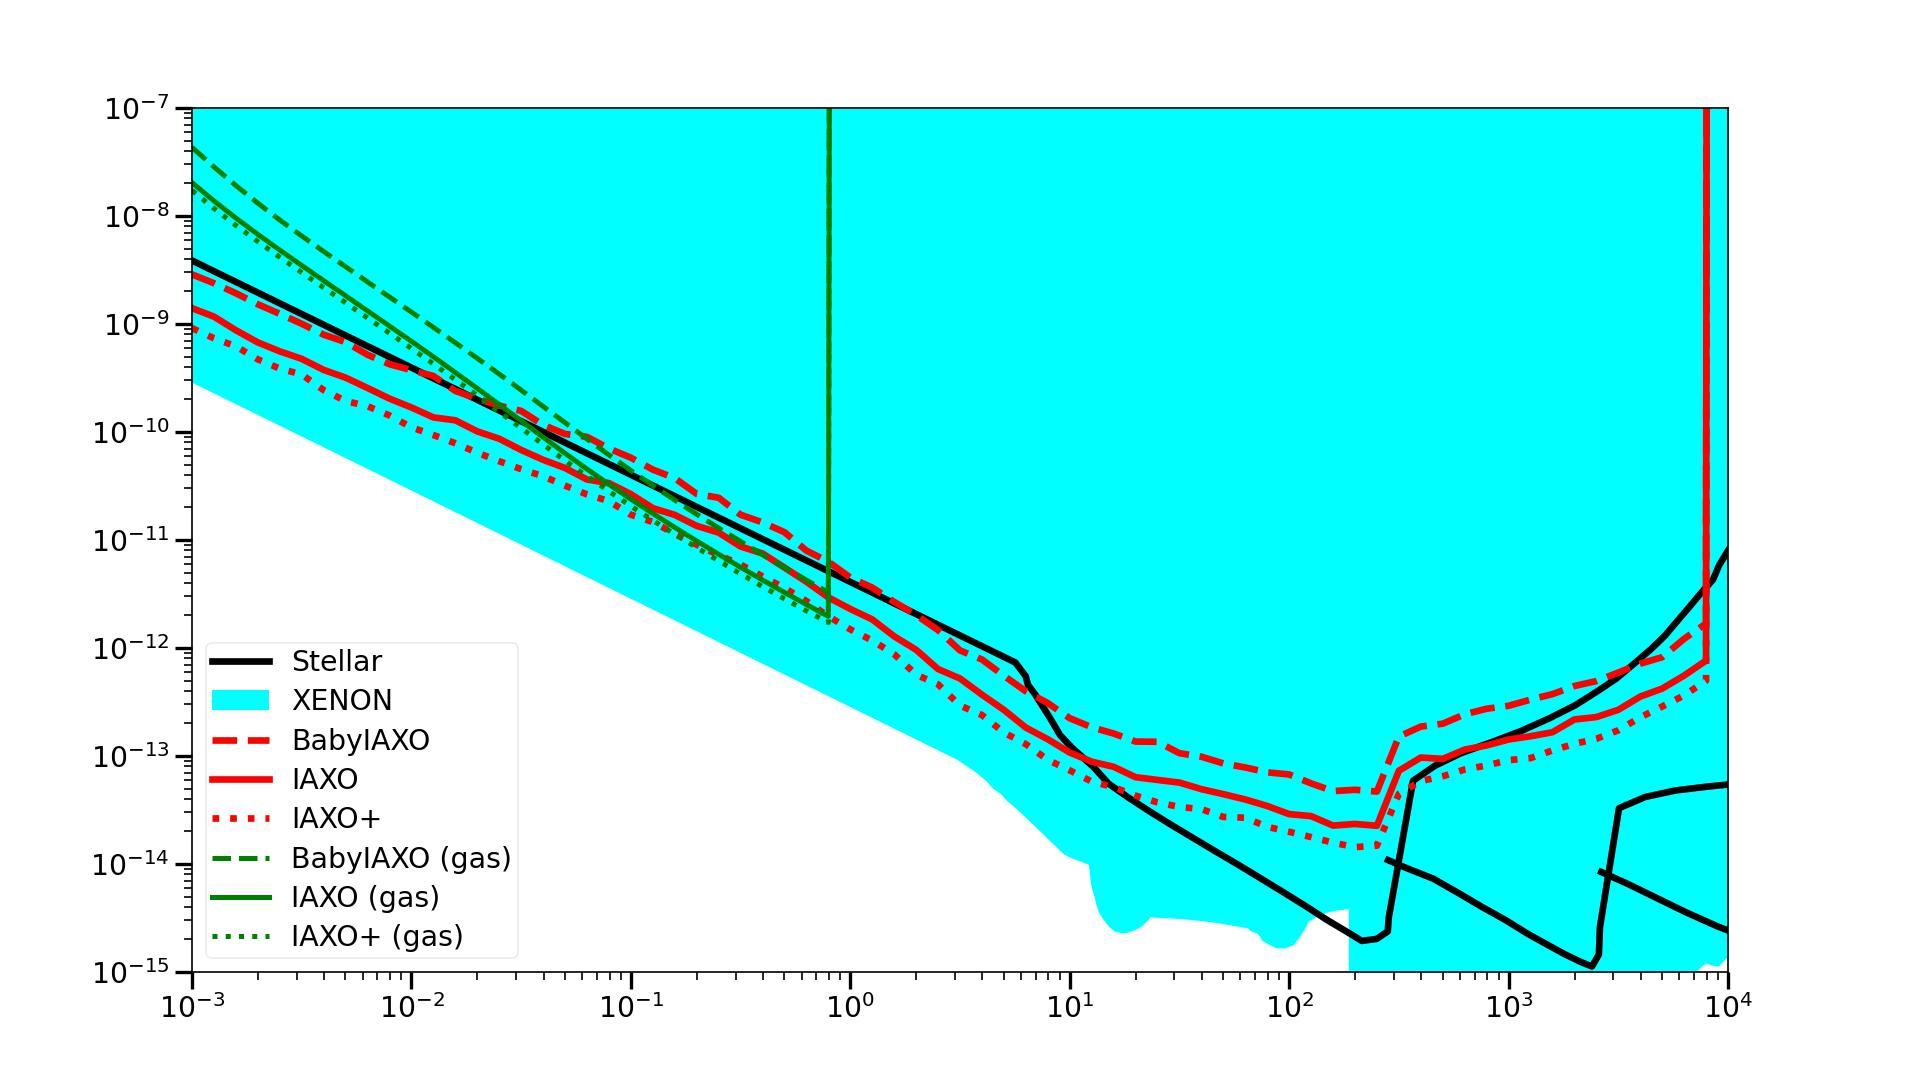
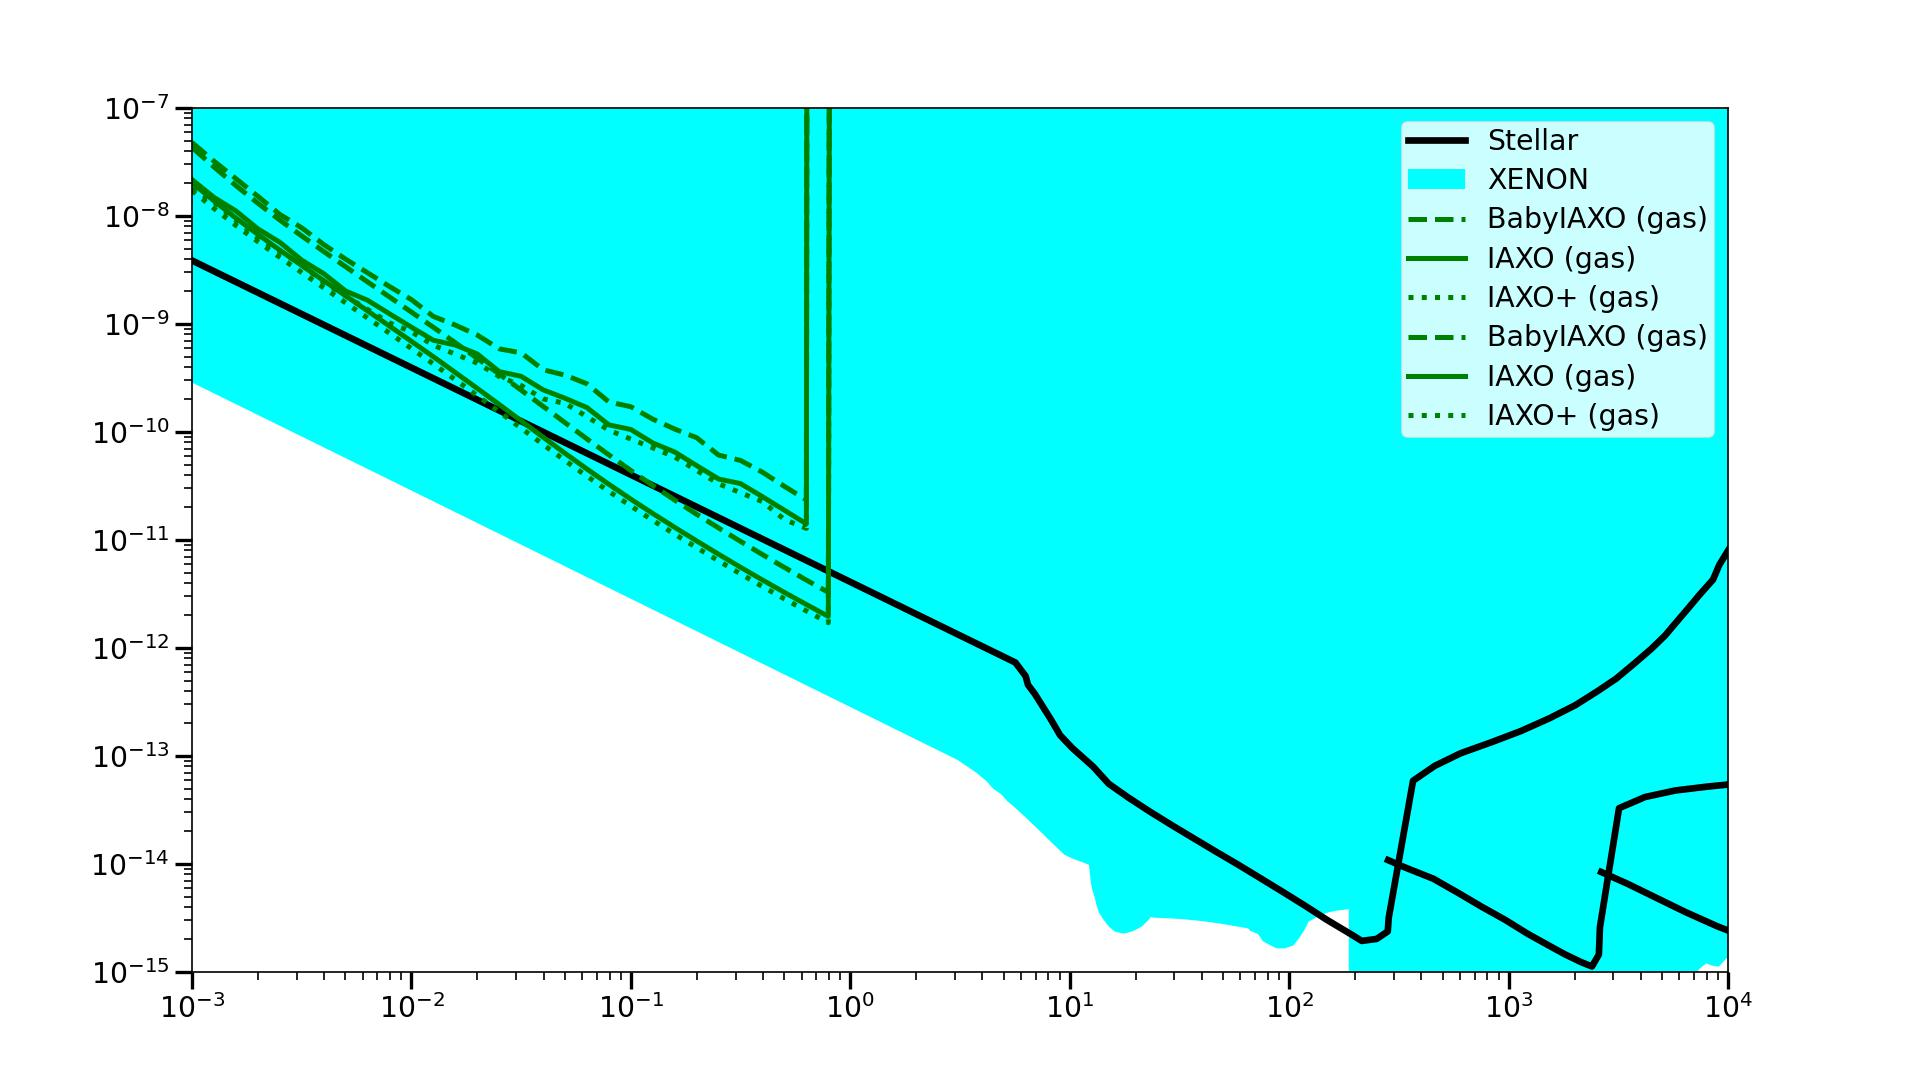
testing limit setting method

Changed region(s): [[0.0938, 0.0917, 0.9062, 0.7944], [0.0938, 0.5806, 0.25, 0.8861]]

diff --git a/plotLimitComparison-test.py b/plotLimitComparison-test.py
@@ -1,0 +1,123 @@
+# comparing different contributions for babyIAXO
+
+# conversion factors
+s2eV = (6.582119569e-16)
+J2eV = (1. / 1.602176634e-19)
+m2eV = (1.973269804e-7)
+K2eV = (8.617333262e-5)
+kg2eV = 5.609588604e35
+
+import numpy as np
+from numpy import loadtxt
+from numpy import sqrt
+from matplotlib import pyplot as plt
+
+plt.style.use("style.txt")	# import plot style
+
+# setup plot
+fig2 = plt.figure(1)	# display is 1920 x 1080 (16:9)
+ax2 = fig2.add_axes((.1,.1,.8,.8))
+ax2.set(xlim=(1e-3,1e4), ylim=(1e-15,1e-7))
+
+# solar bounds
+dat = loadtxt("DPlimits/limit_data/DarkPhoton/Solar.txt")
+ax2.plot(dat[:,0],dat[:,1], label='Stellar', color='black',ls='-', lw=4)
+dat = loadtxt("DPlimits/limit_data/DarkPhoton/RG.txt")
+ax2.plot(dat[:,0],dat[:,1], color='black',ls='-', lw=4)
+dat = loadtxt("DPlimits/limit_data/DarkPhoton/HB.txt")
+ax2.plot(dat[:,0],dat[:,1], color='black',ls='-', lw=4)
+
+
+# XENON
+col='cyan'
+y2= 1e-5
+alp=1
+dat = loadtxt("DPlimits/limit_data/DarkPhoton/Xenon1T.txt")
+dat[:,1] = dat[:,1]*sqrt(0.3/0.45)
+plt.fill_between(1e3*dat[:,0],dat[:,1],y2=y2,label='XENON',edgecolor=None,facecolor=col,zorder=0.5,alpha=alp)
+
+dat = loadtxt("DPlimits/limit_data/DarkPhoton/Xenon1T_S1S2.txt")
+dat[:,1] = dat[:,1]*sqrt(0.3/0.45)
+plt.fill_between(dat[:,0],dat[:,1],y2=y2,edgecolor=None,facecolor=col,zorder=0.5,alpha=alp)
+
+dat = loadtxt("DPlimits/limit_data/DarkPhoton/XENON1T_SE.txt")
+dat[:,1] = dat[:,1]*sqrt(0.3/0.45)
+plt.fill_between(dat[:,0],dat[:,1],y2=y2,edgecolor=None,facecolor=col,zorder=0.5,alpha=alp)
+
+dat = loadtxt("DPlimits/limit_data/DarkPhoton/XENON1T_Solar_SE.txt")
+plt.fill_between(dat[:,0],dat[:,1],y2=y2,edgecolor=None,facecolor=col,zorder=0.5,alpha=alp)
+
+dat = loadtxt("DPlimits/limit_data/DarkPhoton/XENONnT.txt")
+plt.fill_between(dat[:,0],dat[:,1],y2=y2,edgecolor=None,facecolor=col,zorder=0.5,alpha=alp)
+
+
+
+# vacuum stats
+dat = loadtxt("data/limits/statsAtlas-babyIAXO-1eV-test.dat")
+ax2.plot(dat[:,0],dat[:,1], label='BabyIAXO (stats)', color='red',ls='--', lw=4)
+
+dat = loadtxt("data/limits/statsAtlas-baselineIAXO-1eV-test.dat")
+ax2.plot(dat[:,0],dat[:,1], label='IAXO (stats)', color='red',ls='-', lw=4)
+
+dat = loadtxt("data/limits/statsAtlas-upgradedIAXO-1eV-test.dat")
+ax2.plot(dat[:,0],dat[:,1], label='IAXO+ (stats)', color='red',ls=':', lw=4)
+
+
+# vacuum naive
+dat = loadtxt("data/limits/babyIAXO-Atlas-1eV.dat")
+a = 0.6 * 1e-4 		# m2
+A = 0.77			# m2
+bg = 1e-7	# cm-2 s-1 keV-1
+bg *= 10 * (100*m2eV)**2 * s2eV	# eV3
+dat[:,1] = ((bg/dat[:,1]) * a/A) **(1/4)
+ax2.plot(dat[:,0],dat[:,1], label='BabyIAXO (bg = sig)', color='green',ls='--', lw=4)
+
+dat = loadtxt("data/limits/baselineIAXO-Atlas-1eV.dat")
+a = 1.2 * 1e-4 		# m2
+A = 2.3				# m2
+bg = 1e-8	# cm-2 s-1 keV-1
+bg *= 10 * (100*m2eV)**2 * s2eV	# eV3
+dat[:,1] = ((bg/dat[:,1]) * a/A) **(1/4)
+ax2.plot(dat[:,0],dat[:,1], label='IAXO (bg = sig)', color='green',ls='-', lw=4)
+
+dat = loadtxt("data/limits/upgradedIAXO-Atlas-1eV.dat")
+a = 1.2 * 1e-4 		# m2
+A = 3.9				# m2
+bg = 1e-9	# cm-2 s-1 keV-1
+bg *= 10 * (100*m2eV)**2 * s2eV	# eV3
+dat[:,1] = ((bg/dat[:,1]) * a/A) **(1/4)
+ax2.plot(dat[:,0],dat[:,1], label='IAXO+ (bg = sig)', color='green',ls=':', lw=4)
+
+
+# gas Atlas
+#dat = loadtxt("data/limits/stats-babyIAXO-AtlasGas-30eV.dat")
+#ax2.plot(dat[:,0],dat[:,1], label='BabyIAXO (gas)', color='g',ls='--', lw=3)
+#
+#dat = loadtxt("data/limits/stats-baselineIAXO-AtlasGas-30eV.dat")
+#ax2.plot(dat[:,0],dat[:,1], label='IAXO (gas)', color='g',ls='-', lw=3)
+#
+#dat = loadtxt("data/limits/stats-upgradedIAXO-AtlasGas-30eV.dat")
+#ax2.plot(dat[:,0],dat[:,1], label='IAXO+ (gas)', color='g',ls=':', lw=3)
+
+
+
+# axes
+#ax2.set_xlabel("Dark photon mass [eV]")
+#ax2.set_ylabel("Flux (normalised)")
+ax2.set_xscale('log')
+ax2.set_yscale('log')
+ax2.legend()#loc='upper right')
+
+plt.savefig('plots/limit-comparison-test.jpg')
+plt.show()
+
+
+## gas Atlas
+#dat = loadtxt("data/limits/statsAtlas-babyIAXO-30eV-gas.dat")
+#ax2.plot(dat[:,0],dat[:,1], label='BabyIAXO (gas)', color='g',ls='--', lw=3)
+#
+#dat = loadtxt("data/limits/statsAtlas-baselineIAXO-30eV-gas.dat")
+#ax2.plot(dat[:,0],dat[:,1], label='IAXO (gas)', color='g',ls='-', lw=3)
+#
+#dat = loadtxt("data/limits/statsAtlas-upgradedIAXO-30eV-gas.dat")
+#ax2.plot(dat[:,0],dat[:,1], label='IAXO+ (gas)', color='g',ls=':', lw=3)

diff --git a/plotLimitComparison.py b/plotLimitComparison.py
@@ -20,6 +20,7 @@ ax2.plot(dat[:,0],dat[:,1], color='black',ls='-', lw=4)
 dat = loadtxt("DPlimits/limit_data/DarkPhoton/HB.txt")
 ax2.plot(dat[:,0],dat[:,1], color='black',ls='-', lw=4)
 
+
 # XENON
 col='cyan'
 y2= 1e-5
@@ -43,16 +44,15 @@ dat = loadtxt("DPlimits/limit_data/DarkPhoton/XENONnT.txt")
 plt.fill_between(dat[:,0],dat[:,1],y2=y2,edgecolor=None,facecolor=col,zorder=0.5,alpha=alp)
 
 
-
 # vacuum Atlas
-dat = loadtxt("data/limits/statsAtlas-babyIAXO-1eV-test.dat")
-ax2.plot(dat[:,0],dat[:,1], label='BabyIAXO', color='red',ls='--', lw=4)
-
-dat = loadtxt("data/limits/statsAtlas-baselineIAXO-1eV-test.dat")
-ax2.plot(dat[:,0],dat[:,1], label='IAXO', color='red',ls='-', lw=4)
-
-dat = loadtxt("data/limits/statsAtlas-upgradedIAXO-1eV-test.dat")
-ax2.plot(dat[:,0],dat[:,1], label='IAXO+', color='red',ls=':', lw=4)
+#dat = loadtxt("data/limits/statsAtlas-babyIAXO-1eV-test.dat")
+#ax2.plot(dat[:,0],dat[:,1], label='BabyIAXO', color='red',ls='--', lw=4)
+#
+#dat = loadtxt("data/limits/statsAtlas-baselineIAXO-1eV-test.dat")
+#ax2.plot(dat[:,0],dat[:,1], label='IAXO', color='red',ls='-', lw=4)
+#
+#dat = loadtxt("data/limits/statsAtlas-upgradedIAXO-1eV-test.dat")
+#ax2.plot(dat[:,0],dat[:,1], label='IAXO+', color='red',ls=':', lw=4)
 
 
 # gas Atlas
@@ -63,6 +63,17 @@ dat = loadtxt("data/limits/stats-baselineIAXO-AtlasGas-30eV.dat")
 ax2.plot(dat[:,0],dat[:,1], label='IAXO (gas)', color='g',ls='-', lw=3)
 
 dat = loadtxt("data/limits/stats-upgradedIAXO-AtlasGas-30eV.dat")
+ax2.plot(dat[:,0],dat[:,1], label='IAXO+ (gas)', color='g',ls=':', lw=3)
+
+
+# gas Atlas
+dat = loadtxt("data/limits/statsAtlas-babyIAXO-30eV-gas.dat")
+ax2.plot(dat[:,0],dat[:,1], label='BabyIAXO (gas)', color='g',ls='--', lw=3)
+
+dat = loadtxt("data/limits/statsAtlas-baselineIAXO-30eV-gas.dat")
+ax2.plot(dat[:,0],dat[:,1], label='IAXO (gas)', color='g',ls='-', lw=3)
+
+dat = loadtxt("data/limits/statsAtlas-upgradedIAXO-30eV-gas.dat")
 ax2.plot(dat[:,0],dat[:,1], label='IAXO+ (gas)', color='g',ls=':', lw=3)
 
 

diff --git a/plotProbs.py b/plotProbs.py
@@ -22,10 +22,10 @@ dat = loadtxt("data/probVac-50eV.dat")
 ax2.plot(dat[:,0],dat[:,1], label='vacuum (50 eV)', color='black', ls='-', lw=lw, alpha=alp)
 
 dat = loadtxt("data/probVac-500eV.dat")
-ax2.plot(dat[:,0],dat[:,1], label='vacuum (500 eV)', color='black', ls=':', lw=lw, alpha=alp)
+#ax2.plot(dat[:,0],dat[:,1], label='vacuum (500 eV)', color='black', ls=':', lw=lw, alpha=alp)
 
 dat = loadtxt("data/probVac-5keV.dat")
-ax2.plot(dat[:,0],dat[:,1], label='vacuum (5 keV)', color='black', ls='--', lw=lw, alpha=alp)
+#ax2.plot(dat[:,0],dat[:,1], label='vacuum (5 keV)', color='black', ls='--', lw=lw, alpha=alp)
 
 
 # gas

diff --git a/LMixing.cpp b/LMixing.cpp
@@ -179,7 +179,7 @@ void spectrumResL( double m ) {
 		
 			double dr = r[j+1] - r[j];
 			double entry = lMixingResIntegrand( m, ne[j], T[j], wp[j], r[j], nH[j], nHe4[j], nHe3[j], g1, g2 )
-										/(pow(100*m2eV,2)*s2eV*pow(m,4));	// cm-2 s-1 eV-1 /chi^2 mass^4
+										/(pow(100*m2eV,2)*s2eV*pow(m,4));	// cm-2 s-1 eV-1
 			E.push_back(wp[j]);
 			phi.push_back(entry);
 			R.push_back(rFrac[j]);

diff --git a/plotSpectrum.py b/plotSpectrum.py
@@ -102,7 +102,7 @@ ax2.plot(dat[:,0], dat[:,1], ls='-.', label = 'pure L')
 
 # axes
 ax2.set_xlabel("Dark photon energy [eV]")
-ax2.set_ylabel("dPhi/dw per chi2 m2 [cm-2 s-1 eV-3] ")
+ax2.set_ylabel("dPhi/dw [cm-2 s-1 eV-1] ")
 #ax2.set_ylabel("Differential flux [eV2]")
 ax2.set_xscale('log')
 if log:
